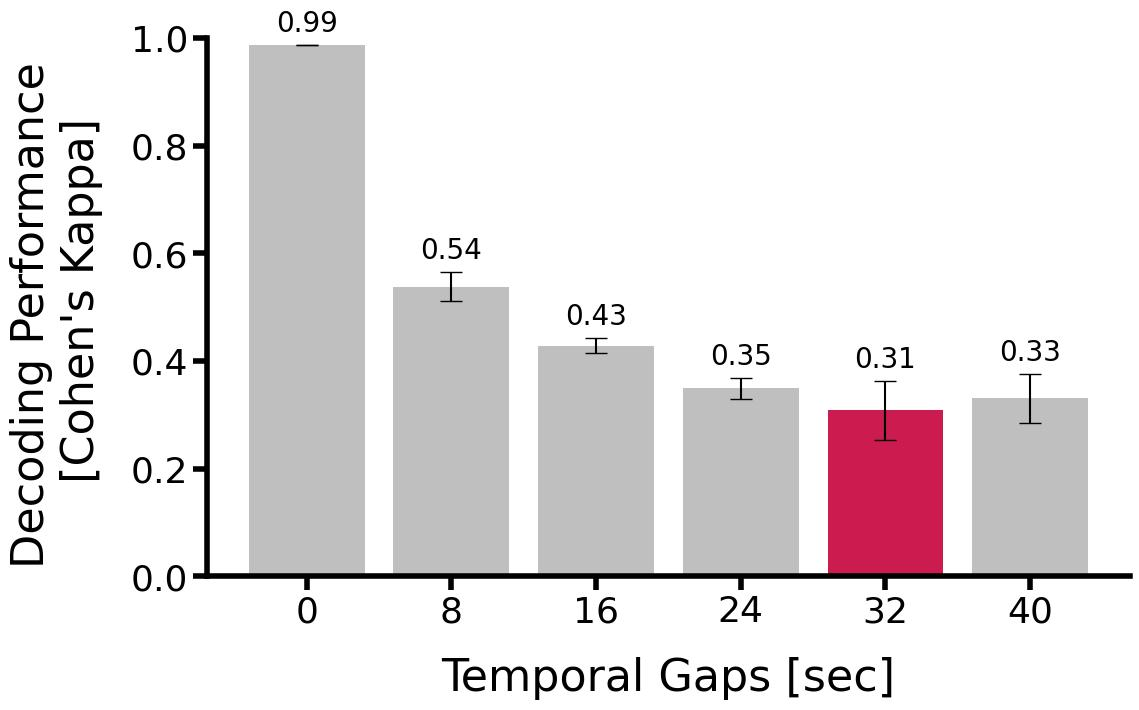
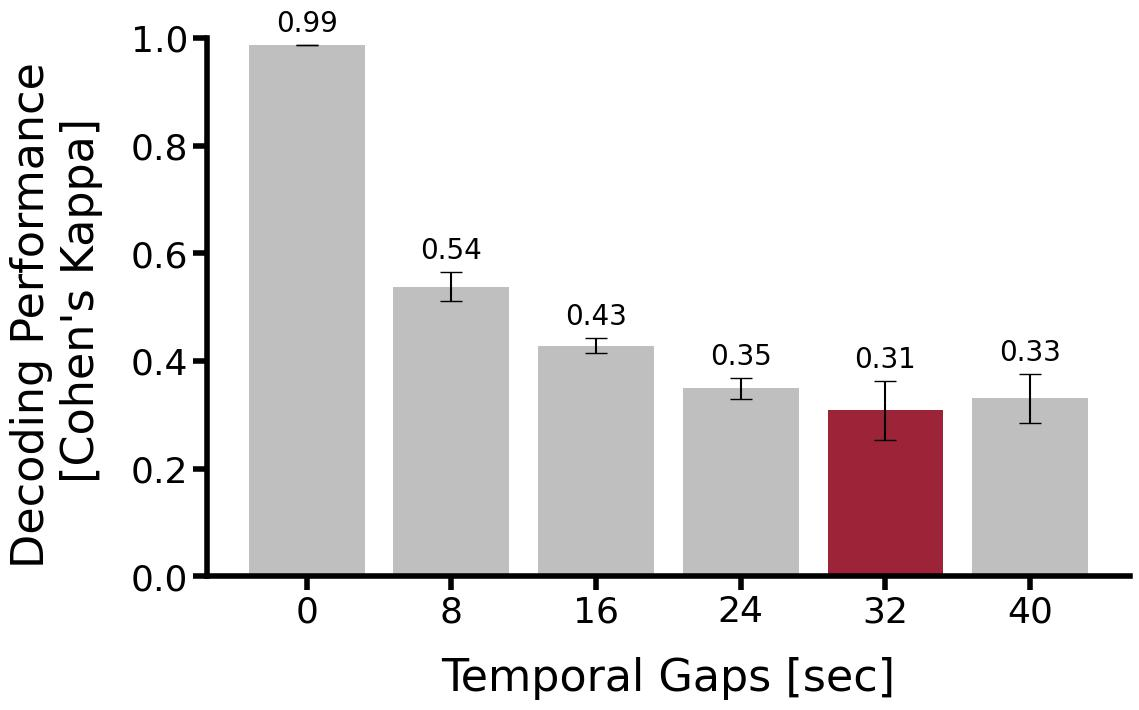
adapted colors buffer

Changed region(s): [[0.7068, 0.5577, 0.8297, 0.8056]]

diff --git a/plot_code/decoding_results/buffer_lengths/notebooks/utils.py b/plot_code/decoding_results/buffer_lengths/notebooks/utils.py
@@ -3,19 +3,17 @@ import numpy as np
 import matplotlib.pyplot as plt
 import sys
 
-config_path = "/usr/wiss/gerkenf/DHV/Spikes2Frames_Paper/paper/collection/UPDATED_DATASET/FIGURE_DECODING"
-sys.path.append(config_path)
-
 import config_buffer as config
 print(f"Fontsize Labels Bar: {config.capsize_err}")
+
+import config_colors as config_colors
 
 
 def plot_buffer_lengths_evaluation(values, values_err, labels, metric, mode, save_path):
     # Define colors
-    colors=[config.grey_color, config.character_color]
+    colors=[config.grey_color, config_colors.colors[0]]
 
     x = np.arange(len(labels))  # the label locations
-    #x = np.arange(12)  # the label locations
     width = 0.8  # the width of the bars
     print(f'X: {x-width/2}')
     print(f'Type of : {width/2}')
@@ -36,9 +34,6 @@ def plot_buffer_lengths_evaluation(values, values_err, labels, metric, mode, sav
 
     fig, ax = plt.subplots(figsize=(config.figure_x, config.figure_y))#(figsize=(25, 10))
 
-    # define grey color
-    color='0.4'
-
     # plot bars
     for i in range(len(labels)):
         if labels[i] == '32':
@@ -46,11 +41,6 @@ def plot_buffer_lengths_evaluation(values, values_err, labels, metric, mode, sav
         else:
             bar = ax.bar(x[i], values[i][idx], yerr=values_err[i][idx], width=width, color=colors[0], capsize=config.capsize_err)
         ax.bar_label(container=bar, labels=[f"{np.round(values[i][idx],2)}"], padding=5, fontsize=config.fontsize_labels_bar)
-
-    # if baseline not none
-    #plt.hlines(y=0, xmin=-0.5 , xmax=len(labels), label='Chance \nLevel', color='dimgrey', linewidth=5)
-
-    # Add some text for labels, title and custom x-axis tick labels, etc.
     
     # X AXIS
     ax.set_xlabel('Temporal Gaps [sec]', fontsize=config.x_fontsize_label, labelpad=config.labelpad)

diff --git a/plot_code/decoding_results/buffer_lengths/config_buffer.py b/plot_code/decoding_results/buffer_lengths/config_buffer.py
@@ -1,0 +1,48 @@
+"""
+File to save all configurations for the plots
+"""
+
+import seaborn as sns
+
+# COLORS
+character_color = sns.color_palette("rocket", n_colors=1)[0]
+transitions_color = sns.color_palette("mako", n_colors=1)[0]
+location_color = sns.color_palette("BrBG_r", n_colors=8)[6]
+#extra_color = sns.color_palette("Purples", n_colors=10)[-2]
+extra_color = sns.color_palette("bone", n_colors=5)[2]
+#grey_color = sns.color_palette("bone", n_colors=5)[2]
+#grey_color = sns.color_palette("bone", n_colors=8)[6]
+grey_color = sns.color_palette("binary", n_colors=7)[1]
+
+# COLOR PALETTES
+character_palette = sns.color_palette("rocket", n_colors=9)[5:]
+transitions_palette = sns.color_palette("mako", n_colors=4)
+location_palette = sns.color_palette("BrBG", n_colors=4)
+extra_palette = sns.color_palette("BuPu", n_colors=4)
+grey_palette = sns.color_palette("bone_r", n_colors=4)
+
+# SIZE FIGURE
+figure_x = 11.5
+figure_y = 7.2
+
+# PLOTS - BARS
+capsize_err = 8
+fontsize_labels_bar = 20
+
+# GENERAL AXIS
+labelpad = 20
+
+# X AXIS
+x_fontsize_label = 32
+x_fontsize_tick_labels = 26
+
+# Y AXIS
+y_fontsize_label = 32
+y_fontsize_tick_labels = 26
+
+# GENERAL
+fontsize_legend = 26
+frameon_legend=False
+linewidth_spines = 4
+tick_length = 10
+tick_width = 4
